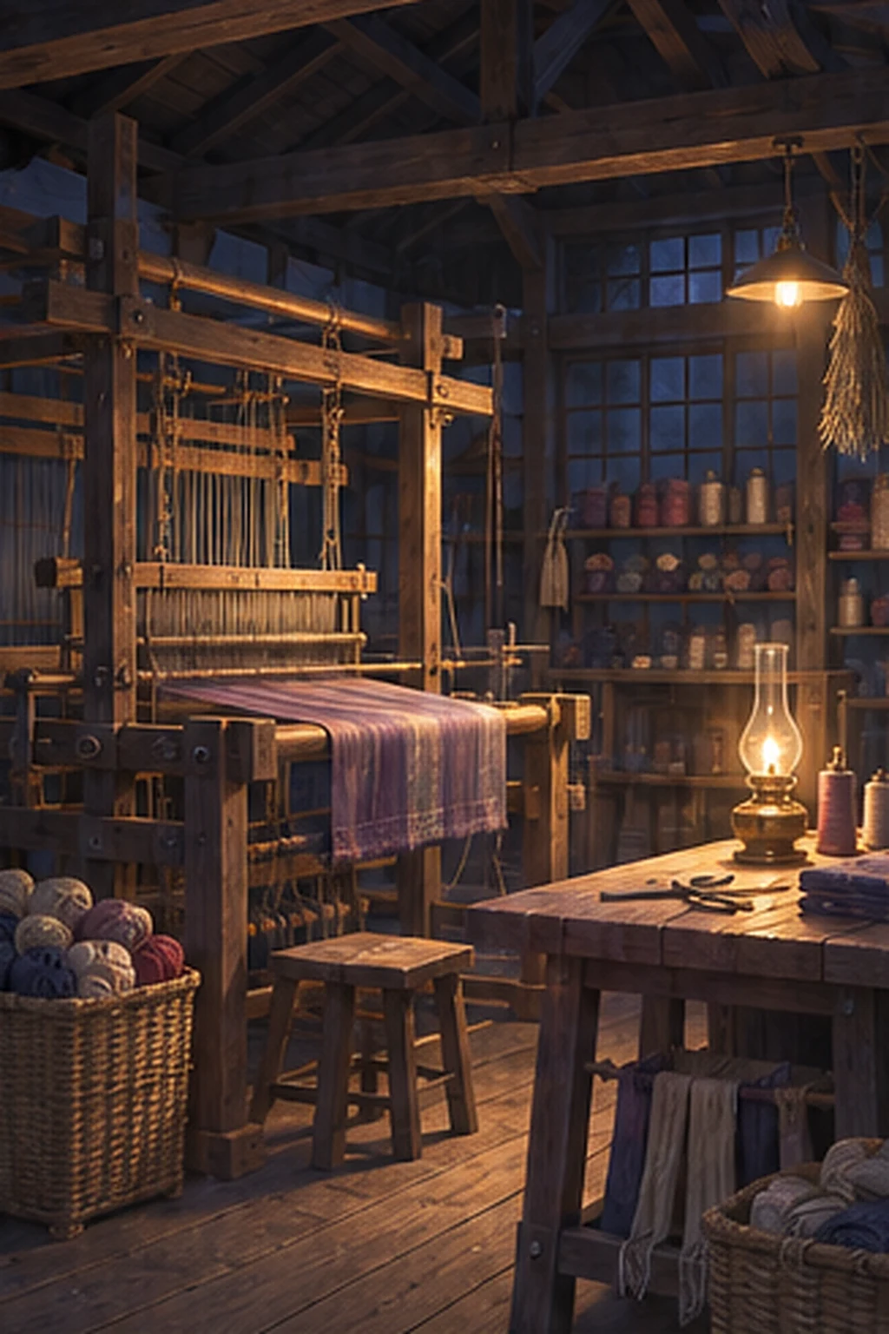
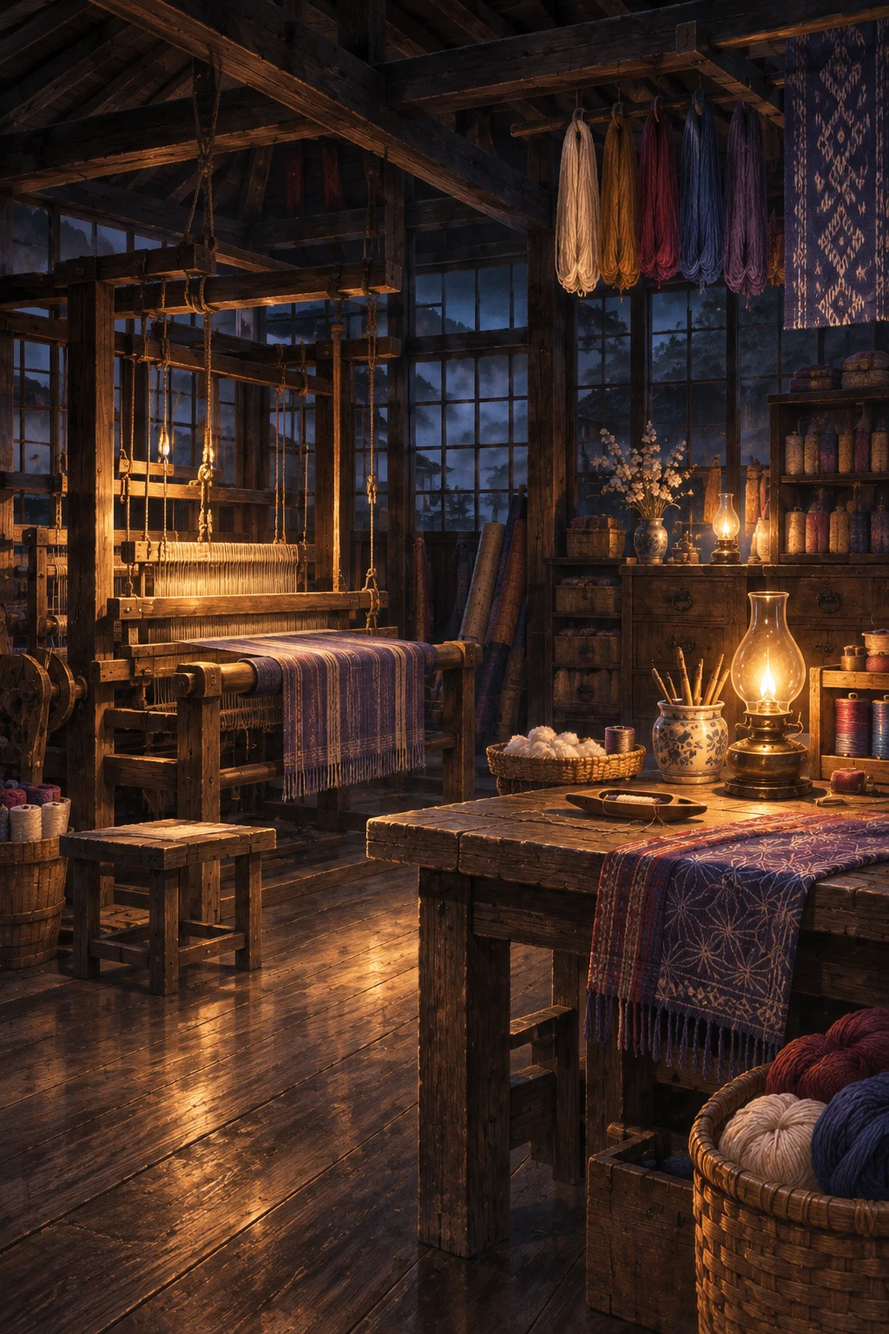
Ver.0.98.2.0 紬ヶ丘の背景7枚を高解像度版に差し替え、綴のボス戦ちびキャラを追加
Claude-Session: https://claude.ai/code/session_01VQKEeRrqcshDUzwoxaV5zA

diff --git a/index.html b/index.html
@@ -1,5 +1,5 @@
-<!doctype html><html lang="ja"><head><link rel="stylesheet" href="css/symbol_reactions_v0500.css?v=0.50.0.1"><meta charset="UTF-8"><meta name="viewport" content="width=device-width, initial-scale=1, viewport-fit=cover, interactive-widget=resizes-content"><meta name="theme-color" content="#f6f8ff"><title>宵星の契約者 | RE:START Ver.0.98.1.0</title><link rel="stylesheet" href="css/styles.css?v=0.66.0.0"><link rel="stylesheet" href="css/chibi_battle.css?v=20261109-enemy-layout-v1"><link rel="stylesheet" href="css/q6_classic_battle_v03540.css?v=20261109-classic-hitbox-v1"><link rel="stylesheet" href="css/battle_backgrounds_v1.css?v=20261106"><link rel="stylesheet" href="css/home_portrait_fit_v03550.css?v=0.49.0.0"><link rel="stylesheet" href="css/portrait_face_frame_v03560.css?v=0.49.0.0"><link rel="stylesheet" href="css/mobile_landscape_v03560_patch.css?v=20261103"><link rel="stylesheet" href="css/character_depth_v1.css?v=1"><link rel="stylesheet" href="css/character_acting_v1.css?v=20261104-2">
+<!doctype html><html lang="ja"><head><link rel="stylesheet" href="css/symbol_reactions_v0500.css?v=0.50.0.1"><meta charset="UTF-8"><meta name="viewport" content="width=device-width, initial-scale=1, viewport-fit=cover, interactive-widget=resizes-content"><meta name="theme-color" content="#f6f8ff"><title>宵星の契約者 | RE:START Ver.0.98.2.0</title><link rel="stylesheet" href="css/styles.css?v=0.66.0.0"><link rel="stylesheet" href="css/chibi_battle.css?v=20261109-enemy-layout-v1"><link rel="stylesheet" href="css/q6_classic_battle_v03540.css?v=20261109-classic-hitbox-v1"><link rel="stylesheet" href="css/battle_backgrounds_v1.css?v=20261106"><link rel="stylesheet" href="css/home_portrait_fit_v03550.css?v=0.49.0.0"><link rel="stylesheet" href="css/portrait_face_frame_v03560.css?v=0.49.0.0"><link rel="stylesheet" href="css/mobile_landscape_v03560_patch.css?v=20261103"><link rel="stylesheet" href="css/character_depth_v1.css?v=1"><link rel="stylesheet" href="css/character_acting_v1.css?v=20261104-2">
 <link rel="stylesheet" href="css/home_landscape_v05010.css?v=0.54.7.0">
 <link rel="stylesheet" href="css/zankyo_book_v05050.css?v=0.50.5.0">
 <link rel="stylesheet" href="css/battle_ui_dashboard_v1.css?v=20261109-fixed-hud-v2"><link rel="stylesheet" href="css/battle_immersive_v1.css?v=20261109-in-scene-1"><link rel="stylesheet" href="css/battle_readability_v1.css?v=20261109-readability-v2"><link rel="stylesheet" href="css/onescreen_v0661.css?v=0.68.4.1"><link rel="stylesheet" href="css/night_v0670.css?v=0.67.3.0"><link rel="stylesheet" href="css/title_v0680.css?v=0.68.2.0"><link rel="stylesheet" href="css/home_touch_v0685.css?v=0.68.7.0"></head><body><div id="app"></div>
-<script defer src="js/art.js?v=0.49.2.0"></script><script defer src="js/art_v2.js?v=0.55.1.0"></script><script defer src="js/romance7.js?v=0.49.2.0"></script><script defer src="js/romance_shinonome.js?v=0.49.2.0"></script><script defer src="js/romance_oldcafe.js?v=0.49.2.0"></script><script defer src="js/romance_stage_lines.js?v=0.49.2.0"></script><script defer src="js/romance_station.js?v=0.49.2.0"></script><script defer src="js/romance_school.js?v=0.49.2.0"></script><script defer src="js/romance_seaside.js?v=0.49.2.0"></script><script defer src="js/romance_lighthouse.js?v=0.49.2.0"></script><script defer src="js/romance_chapter2.js?v=0.49.2.0"></script><script defer src="js/romance_chapter2_late.js?v=0.49.2.0-sakuya-depth1"></script><script defer src="js/expression_cues.js?v=0.49.2.0"></script><script defer src="js/expression_art_v029.js?v=0.49.2.0"></script><script defer src="js/expression_cues_v029.js?v=0.49.2.0"></script><script defer src="js/prologue_faces_v03439.js?v=0.49.2.0"></script><script defer src="js/audio.js?v=0.98.0.0"></script><script defer src="js/audio_trial.js?v=0.49.2.0"></script><script defer src="js/romance_chapter3.js?v=0.49.2.0"></script><script defer src="js/romance_chapter3_late.js?v=0.49.2.0"></script><script defer src="js/romance_chapter4.js?v=0.52.1.0"></script><script defer src="js/romance_chapter5.js?v=0.49.2.0"></script><script defer src="js/chapter5_rewrite_v0360.js?v=0.49.2.0"></script><script defer src="js/chapter6_v0370.js?v=0.49.2.0"></script><script defer src="js/chapter7_v0380.js?v=0.49.2.0"></script><script defer src="js/chapter8_v0390.js?v=0.54.1.0"></script><script defer src="js/chapter9_v0400.js?v=0.49.2.0"></script><script defer src="js/chapter10_v0410.js?v=0.49.2.0"></script><script defer src="js/chapter11_v0430.js?v=0.49.2.0"></script><script defer src="js/chapter12_v0440.js?v=0.49.2.0"></script><script defer src="js/chapter13_v0450.js?v=0.49.2.0"></script><script defer src="js/chapter14_v0460.js?v=0.49.2.0"></script><script defer src="js/chapter15_v0470.js?v=0.49.2.0"></script><script defer src="js/chapter16_v0480.js?v=0.49.2.0"></script><script defer src="js/chapter17_v0490.js?v=0.49.2.0"></script><script defer src="js/chapter18_v0520.js?v=0.52.0.0"></script><script defer src="js/chapter19_v0530.js?v=0.53.0.0"></script><script defer src="js/chapter20_v0540.js?v=0.54.2.0-ibuki-depth1"></script><script defer src="js/chapter21_v0560.js?v=0.56.0.0"></script><script defer src="js/chapter22_v0570.js?v=0.57.0.0-sakuya-depth1"></script><script defer src="js/chapter23_v0580.js?v=0.65.7.0"></script><script defer src="js/chapter24_v0590.js?v=0.65.7.0"></script><script defer src="js/chapter25_v0600.js?v=0.60.0.0"></script><script defer src="js/chapter26_v0610.js?v=0.61.0.0"></script><script defer src="js/chapter27_v0620.js?v=0.65.7.0"></script><script defer src="js/chapter28_v0630.js?v=0.65.7.0"></script><script defer src="js/chapter29_v0640.js?v=0.64.0.0"></script><script defer src="js/chapter30_v0650.js?v=0.65.7.0"></script><script defer src="js/chapter33_v0710.js?v=0.71.0.0"></script><script defer src="js/chapter34_v0720.js?v=0.72.0.0"></script><script defer src="js/chapter35_v0730.js?v=0.73.0.0"></script><script defer src="js/chapter36_v0740.js?v=0.74.0.0"></script><script defer src="js/chapter37_v0750.js?v=0.75.0.0"></script><script defer src="js/chapter38_v0760.js?v=0.76.0.0"></script><script defer src="js/chapter39_v0770.js?v=0.77.0.0"></script><script defer src="js/chapter40_v0780.js?v=0.78.0.0"></script><script defer src="js/chapter41_v0790.js?v=0.79.0.0"></script><script defer src="js/chapter42_v0800.js?v=0.80.0.0"></script><script defer src="js/chapter43_v0810.js?v=0.81.0.0"></script><script defer src="js/chapter44_v0820.js?v=0.82.0.0"></script><script defer src="js/chapter45_v0830.js?v=0.83.0.0"></script><script defer src="js/chapter46_v0840.js?v=0.84.0.0"></script><script defer src="js/chapter47_v0850.js?v=0.85.0.0"></script><script defer src="js/chapter48_v0860.js?v=0.86.0.0"></script><script defer src="js/chapter49_v0870.js?v=0.87.0.0"></script><script defer src="js/chapter50_v0880.js?v=0.88.0.0"></script><script defer src="js/chapter51_v0890.js?v=0.89.0.0"></script><script defer src="js/chapter52_v0900.js?v=0.90.0.0"></script><script defer src="js/chapter53_v0910.js?v=0.91.0.0"></script><script defer src="js/chapter54_v0920.js?v=0.92.0.0"></script><script defer src="js/chapter55_v0930.js?v=0.93.0.0"></script><script defer src="js/chapter56_v0940.js?v=0.94.0.0"></script><script defer src="js/chapter57_v0950.js?v=0.95.0.0"></script><script defer src="js/chapter58_v0960.js?v=0.96.0.0"></script><script defer src="js/chapter59_v0970.js?v=0.97.0.0"></script><script defer src="js/chapter60_v0980.js?v=0.98.0.0"></script><script defer src="js/chapter31_v0690.js?v=0.69.0.0"></script><script defer src="js/chapter32_v0700.js?v=0.70.0.0"></script><script defer src="js/investigation.js?v=0.98.0.0"></script><script defer src="js/story_backgrounds_v031.js?v=0.98.1.0"></script><script defer src="js/portrait_fit_v031.js?v=0.98.1.0"></script><script defer src="js/new_units_v026.js?v=0.49.2.0"></script><script defer src="js/heroines_v027.js?v=0.49.2.0"></script><script defer src="js/heroines_v028.js?v=0.54.1.0"></script><script defer src="js/heroines_v0420.js?v=0.49.2.0"></script><script defer src="js/heroines_v0500.js?v=0.50.0.0"></script><script defer src="js/heroines_v0750.js?v=0.75.0.0"></script><script defer src="js/heroines_v0760.js?v=0.76.0.0"></script><script defer src="js/heroines_v0780.js?v=0.78.0.1"></script><script defer src="js/heroines_v0690.js?v=0.78.0.0"></script><script defer src="js/heroines_v0692.js?v=0.70.2.0"></script><script defer src="js/heroine74_encounters_v0701.js?v=0.78.0.0"></script><script defer src="js/heroines_v0510_text.js?v=0.69.1.0"></script><script defer src="js/symbol_reactions_v0500.js?v=0.50.0.1"></script><script defer src="js/heroines_v0810_units.js?v=20261115"></script><script defer src="js/heroines_v0830_units.js?v=20261115"></script><script defer src="js/heroines_v0840_units.js?v=20261115"></script><script defer src="js/heroines_v0850_units.js?v=20261115-redraw3"></script><script defer src="js/heroines_v0860_units.js?v=20261115-pr59-stage2"></script><script defer src="js/heroines_v0870_units.js?v=20261115-pr32-pr36-stage2"></script><script defer src="js/heroines_v0880_units.js?v=20261115-pr38-stage2"></script><script defer src="js/heroines_v0890_units.js?v=20261115-pr58-stage2"></script><script defer src="js/heroines_v0900_units.js?v=20261115-pr37-stage2"></script><script defer src="js/heroines_v0910_units.js?v=20261115-singles12-stage2"></script><script defer src="js/heroines_v0920_units.js?v=20261116-adopted20-stage2-r"></script><script defer src="js/heroines_v0930_units.js?v=20261116-fujimiya"></script><script defer src="js/heroines_v0940_units.js?v=20261116-nagasawa"></script><script defer src="js/heroines_v0950_units.js?v=20261116-five-r"></script><script defer src="js/heroines_v0960_units.js?v=20261116-seven-r"></script><script defer src="js/performance_v016.js?v=20261116-seven-r"></script><script defer src="js/q12_hd2d.js?v=0.49.2.0"></script><script defer src="js/q12_cinematic.js?v=0.49.2.0"></script><script defer src="js/chibi_battle.js?v=0.49.2.0"></script><script defer src="js/zankyo_enemy_art_v03440.js?v=0.50.7.0"></script><script defer src="js/chibi_bridge_v03321.js?v=0.98.1.0"></script><script defer src="js/battle_turn_v032.js?v=0.65.1.0"></script><script defer src="js/battle_weakness_v033.js?v=0.49.2.0"></script><script defer src="js/battle_flames_v034.js?v=0.49.2.0"></script><script defer src="js/battle_flame_ui_v03410.js?v=0.49.2.0"></script><script defer src="js/battle_auto_v03454.js?v=0.49.2.0"></script><script defer src="js/ambient_v03438.js?v=0.49.2.0"></script><script defer src="js/story_rewrite_v03416.js?v=0.52.1.0"></script><script defer src="js/character_depth_v1.js?v=20261116-seven-r"></script><script defer src="js/character_depth_v0692.js?v=0.70.2.0"></script><script defer src="js/heroines_v0810.js?v=0.81.0.0"></script><script defer src="js/heroines_v0830.js?v=20261115"></script><script defer src="js/heroines_v0840.js?v=20261115"></script><script defer src="js/heroines_v0850.js?v=20261115-redraw3"></script><script defer src="js/heroines_v0860.js?v=20261115-pr59"></script><script defer src="js/heroines_v0870.js?v=20261115-pr32-pr36"></script><script defer src="js/heroines_v0880.js?v=20261115-pr38-stage1"></script><script defer src="js/heroines_v0890.js?v=20261115-pr58-stage1"></script><script defer src="js/heroines_v0900.js?v=20261115-pr37-stage1"></script><script defer src="js/heroines_v0910.js?v=20261115-singles12-stage1"></script><script defer src="js/heroines_v0920.js?v=20261116-adopted20-stage1"></script><script defer src="js/heroines_v0930.js?v=20261116-fujimiya"></script><script defer src="js/heroines_v0940.js?v=20261116-nagasawa"></script><script defer src="js/heroines_v0950.js?v=20261116-five-r"></script><script defer src="js/heroines_v0960.js?v=20261116-seven-r"></script><script defer src="js/game.js?v=0.98.1.0"></script><script defer src="js/zankyo_book_v05050.js?v=0.50.7.0"></script><script defer src="js/haruka_chapter4_v03458.js?v=20261109-haruka-shadow-correct-v2-haruka-depth1"></script><script defer src="js/boss_director_v03462.js?v=0.98.1.0"></script><script defer src="js/q6_classic_battle_v03540.js?v=0.98.1.0"></script><script defer src="js/battle_backgrounds_v1.js?v=0.50.2.0"></script><script defer src="js/battle_immersive_v1.js?v=20261109-half-zones-v2"></script><script defer src="js/home_time_v05030.js?v=0.50.3.0"></script><script defer src="js/home_portrait_fit_v03550.js?v=0.49.2.0"></script><script defer src="js/portrait_faces_v03560.js?v=0.49.2.0"></script><script defer src="js/portrait_face_frame_v03560.js?v=0.49.2.0"></script><script defer src="js/story_weight_cues_v0359.js?v=0.49.2.0"></script><script defer src="js/heroines_v0500_wire.js?v=0.50.0.0"></script><script defer src="js/heroines_v0690_wire.js?v=0.69.1.0"></script><script defer src="js/heroines_v0692_wire.js?v=0.70.2.0"></script><script defer src="js/heroines_v0750_wire.js?v=0.75.0.0"></script><script defer src="js/heroines_v0760_wire.js?v=0.76.0.0"></script><script defer src="js/heroines_v0780_wire.js?v=0.78.0.0"></script><script defer src="js/heroines_v0810_wire.js?v=0.81.0.0"></script><script defer src="js/heroines_v0830_wire.js?v=20261115"></script><script defer src="js/heroines_v0840_wire.js?v=20261115"></script><script defer src="js/heroines_v0850_wire.js?v=20261115-redraw3"></script><script defer src="js/heroines_v0860_wire.js?v=20261115-pr59"></script><script defer src="js/heroines_v0870_wire.js?v=20261115-pr32-pr36"></script><script defer src="js/heroines_v0880_wire.js?v=20261115-pr38-stage1"></script><script defer src="js/heroines_v0890_wire.js?v=20261115-pr58-stage1"></script><script defer src="js/heroines_v0900_wire.js?v=20261115-pr37-stage1"></script><script defer src="js/heroines_v0910_wire.js?v=20261115-singles12-stage1"></script><script defer src="js/heroines_v0920_wire.js?v=20261116-adopted20-stage1"></script><script defer src="js/heroines_v0930_wire.js?v=20261116-fujimiya"></script><script defer src="js/heroines_v0940_wire.js?v=20261116-nagasawa"></script><script defer src="js/heroines_v0950_wire.js?v=20261116-five-r"></script><script defer src="js/heroines_v0960_wire.js?v=20261116-seven-r"></script><script defer src="js/heroines_v0420_wire.js?v=0.49.2.0"></script><script defer src="js/juri_secret_gallery_v0425.js?v=0.49.2.0"></script><script defer src="js/onescreen_v0661.js?v=0.67.1.0"></script><script defer src="js/home_touch_v0685.js?v=0.69.0.0"></script></body></html>
+<script defer src="js/art.js?v=0.49.2.0"></script><script defer src="js/art_v2.js?v=0.55.1.0"></script><script defer src="js/romance7.js?v=0.49.2.0"></script><script defer src="js/romance_shinonome.js?v=0.49.2.0"></script><script defer src="js/romance_oldcafe.js?v=0.49.2.0"></script><script defer src="js/romance_stage_lines.js?v=0.49.2.0"></script><script defer src="js/romance_station.js?v=0.49.2.0"></script><script defer src="js/romance_school.js?v=0.49.2.0"></script><script defer src="js/romance_seaside.js?v=0.49.2.0"></script><script defer src="js/romance_lighthouse.js?v=0.49.2.0"></script><script defer src="js/romance_chapter2.js?v=0.49.2.0"></script><script defer src="js/romance_chapter2_late.js?v=0.49.2.0-sakuya-depth1"></script><script defer src="js/expression_cues.js?v=0.49.2.0"></script><script defer src="js/expression_art_v029.js?v=0.49.2.0"></script><script defer src="js/expression_cues_v029.js?v=0.49.2.0"></script><script defer src="js/prologue_faces_v03439.js?v=0.49.2.0"></script><script defer src="js/audio.js?v=0.98.0.0"></script><script defer src="js/audio_trial.js?v=0.49.2.0"></script><script defer src="js/romance_chapter3.js?v=0.49.2.0"></script><script defer src="js/romance_chapter3_late.js?v=0.49.2.0"></script><script defer src="js/romance_chapter4.js?v=0.52.1.0"></script><script defer src="js/romance_chapter5.js?v=0.49.2.0"></script><script defer src="js/chapter5_rewrite_v0360.js?v=0.49.2.0"></script><script defer src="js/chapter6_v0370.js?v=0.49.2.0"></script><script defer src="js/chapter7_v0380.js?v=0.49.2.0"></script><script defer src="js/chapter8_v0390.js?v=0.54.1.0"></script><script defer src="js/chapter9_v0400.js?v=0.49.2.0"></script><script defer src="js/chapter10_v0410.js?v=0.49.2.0"></script><script defer src="js/chapter11_v0430.js?v=0.49.2.0"></script><script defer src="js/chapter12_v0440.js?v=0.49.2.0"></script><script defer src="js/chapter13_v0450.js?v=0.49.2.0"></script><script defer src="js/chapter14_v0460.js?v=0.49.2.0"></script><script defer src="js/chapter15_v0470.js?v=0.49.2.0"></script><script defer src="js/chapter16_v0480.js?v=0.49.2.0"></script><script defer src="js/chapter17_v0490.js?v=0.49.2.0"></script><script defer src="js/chapter18_v0520.js?v=0.52.0.0"></script><script defer src="js/chapter19_v0530.js?v=0.53.0.0"></script><script defer src="js/chapter20_v0540.js?v=0.54.2.0-ibuki-depth1"></script><script defer src="js/chapter21_v0560.js?v=0.56.0.0"></script><script defer src="js/chapter22_v0570.js?v=0.57.0.0-sakuya-depth1"></script><script defer src="js/chapter23_v0580.js?v=0.65.7.0"></script><script defer src="js/chapter24_v0590.js?v=0.65.7.0"></script><script defer src="js/chapter25_v0600.js?v=0.60.0.0"></script><script defer src="js/chapter26_v0610.js?v=0.61.0.0"></script><script defer src="js/chapter27_v0620.js?v=0.65.7.0"></script><script defer src="js/chapter28_v0630.js?v=0.65.7.0"></script><script defer src="js/chapter29_v0640.js?v=0.64.0.0"></script><script defer src="js/chapter30_v0650.js?v=0.65.7.0"></script><script defer src="js/chapter33_v0710.js?v=0.71.0.0"></script><script defer src="js/chapter34_v0720.js?v=0.72.0.0"></script><script defer src="js/chapter35_v0730.js?v=0.73.0.0"></script><script defer src="js/chapter36_v0740.js?v=0.74.0.0"></script><script defer src="js/chapter37_v0750.js?v=0.75.0.0"></script><script defer src="js/chapter38_v0760.js?v=0.76.0.0"></script><script defer src="js/chapter39_v0770.js?v=0.77.0.0"></script><script defer src="js/chapter40_v0780.js?v=0.78.0.0"></script><script defer src="js/chapter41_v0790.js?v=0.79.0.0"></script><script defer src="js/chapter42_v0800.js?v=0.80.0.0"></script><script defer src="js/chapter43_v0810.js?v=0.81.0.0"></script><script defer src="js/chapter44_v0820.js?v=0.82.0.0"></script><script defer src="js/chapter45_v0830.js?v=0.83.0.0"></script><script defer src="js/chapter46_v0840.js?v=0.84.0.0"></script><script defer src="js/chapter47_v0850.js?v=0.85.0.0"></script><script defer src="js/chapter48_v0860.js?v=0.86.0.0"></script><script defer src="js/chapter49_v0870.js?v=0.87.0.0"></script><script defer src="js/chapter50_v0880.js?v=0.88.0.0"></script><script defer src="js/chapter51_v0890.js?v=0.89.0.0"></script><script defer src="js/chapter52_v0900.js?v=0.90.0.0"></script><script defer src="js/chapter53_v0910.js?v=0.91.0.0"></script><script defer src="js/chapter54_v0920.js?v=0.92.0.0"></script><script defer src="js/chapter55_v0930.js?v=0.93.0.0"></script><script defer src="js/chapter56_v0940.js?v=0.94.0.0"></script><script defer src="js/chapter57_v0950.js?v=0.95.0.0"></script><script defer src="js/chapter58_v0960.js?v=0.96.0.0"></script><script defer src="js/chapter59_v0970.js?v=0.97.0.0"></script><script defer src="js/chapter60_v0980.js?v=0.98.0.0"></script><script defer src="js/chapter31_v0690.js?v=0.69.0.0"></script><script defer src="js/chapter32_v0700.js?v=0.70.0.0"></script><script defer src="js/investigation.js?v=0.98.0.0"></script><script defer src="js/story_backgrounds_v031.js?v=0.98.2.0"></script><script defer src="js/portrait_fit_v031.js?v=0.98.1.0"></script><script defer src="js/new_units_v026.js?v=0.49.2.0"></script><script defer src="js/heroines_v027.js?v=0.49.2.0"></script><script defer src="js/heroines_v028.js?v=0.54.1.0"></script><script defer src="js/heroines_v0420.js?v=0.49.2.0"></script><script defer src="js/heroines_v0500.js?v=0.50.0.0"></script><script defer src="js/heroines_v0750.js?v=0.75.0.0"></script><script defer src="js/heroines_v0760.js?v=0.76.0.0"></script><script defer src="js/heroines_v0780.js?v=0.78.0.1"></script><script defer src="js/heroines_v0690.js?v=0.78.0.0"></script><script defer src="js/heroines_v0692.js?v=0.70.2.0"></script><script defer src="js/heroine74_encounters_v0701.js?v=0.78.0.0"></script><script defer src="js/heroines_v0510_text.js?v=0.69.1.0"></script><script defer src="js/symbol_reactions_v0500.js?v=0.50.0.1"></script><script defer src="js/heroines_v0810_units.js?v=20261115"></script><script defer src="js/heroines_v0830_units.js?v=20261115"></script><script defer src="js/heroines_v0840_units.js?v=20261115"></script><script defer src="js/heroines_v0850_units.js?v=20261115-redraw3"></script><script defer src="js/heroines_v0860_units.js?v=20261115-pr59-stage2"></script><script defer src="js/heroines_v0870_units.js?v=20261115-pr32-pr36-stage2"></script><script defer src="js/heroines_v0880_units.js?v=20261115-pr38-stage2"></script><script defer src="js/heroines_v0890_units.js?v=20261115-pr58-stage2"></script><script defer src="js/heroines_v0900_units.js?v=20261115-pr37-stage2"></script><script defer src="js/heroines_v0910_units.js?v=20261115-singles12-stage2"></script><script defer src="js/heroines_v0920_units.js?v=20261116-adopted20-stage2-r"></script><script defer src="js/heroines_v0930_units.js?v=20261116-fujimiya"></script><script defer src="js/heroines_v0940_units.js?v=20261116-nagasawa"></script><script defer src="js/heroines_v0950_units.js?v=20261116-five-r"></script><script defer src="js/heroines_v0960_units.js?v=20261116-seven-r"></script><script defer src="js/performance_v016.js?v=20261116-seven-r"></script><script defer src="js/q12_hd2d.js?v=0.49.2.0"></script><script defer src="js/q12_cinematic.js?v=0.49.2.0"></script><script defer src="js/chibi_battle.js?v=0.49.2.0"></script><script defer src="js/zankyo_enemy_art_v03440.js?v=0.50.7.0"></script><script defer src="js/chibi_bridge_v03321.js?v=0.98.2.0"></script><script defer src="js/battle_turn_v032.js?v=0.65.1.0"></script><script defer src="js/battle_weakness_v033.js?v=0.49.2.0"></script><script defer src="js/battle_flames_v034.js?v=0.49.2.0"></script><script defer src="js/battle_flame_ui_v03410.js?v=0.49.2.0"></script><script defer src="js/battle_auto_v03454.js?v=0.49.2.0"></script><script defer src="js/ambient_v03438.js?v=0.49.2.0"></script><script defer src="js/story_rewrite_v03416.js?v=0.52.1.0"></script><script defer src="js/character_depth_v1.js?v=20261116-seven-r"></script><script defer src="js/character_depth_v0692.js?v=0.70.2.0"></script><script defer src="js/heroines_v0810.js?v=0.81.0.0"></script><script defer src="js/heroines_v0830.js?v=20261115"></script><script defer src="js/heroines_v0840.js?v=20261115"></script><script defer src="js/heroines_v0850.js?v=20261115-redraw3"></script><script defer src="js/heroines_v0860.js?v=20261115-pr59"></script><script defer src="js/heroines_v0870.js?v=20261115-pr32-pr36"></script><script defer src="js/heroines_v0880.js?v=20261115-pr38-stage1"></script><script defer src="js/heroines_v0890.js?v=20261115-pr58-stage1"></script><script defer src="js/heroines_v0900.js?v=20261115-pr37-stage1"></script><script defer src="js/heroines_v0910.js?v=20261115-singles12-stage1"></script><script defer src="js/heroines_v0920.js?v=20261116-adopted20-stage1"></script><script defer src="js/heroines_v0930.js?v=20261116-fujimiya"></script><script defer src="js/heroines_v0940.js?v=20261116-nagasawa"></script><script defer src="js/heroines_v0950.js?v=20261116-five-r"></script><script defer src="js/heroines_v0960.js?v=20261116-seven-r"></script><script defer src="js/game.js?v=0.98.1.0"></script><script defer src="js/zankyo_book_v05050.js?v=0.50.7.0"></script><script defer src="js/haruka_chapter4_v03458.js?v=20261109-haruka-shadow-correct-v2-haruka-depth1"></script><script defer src="js/boss_director_v03462.js?v=0.98.1.0"></script><script defer src="js/q6_classic_battle_v03540.js?v=0.98.1.0"></script><script defer src="js/battle_backgrounds_v1.js?v=0.50.2.0"></script><script defer src="js/battle_immersive_v1.js?v=20261109-half-zones-v2"></script><script defer src="js/home_time_v05030.js?v=0.50.3.0"></script><script defer src="js/home_portrait_fit_v03550.js?v=0.49.2.0"></script><script defer src="js/portrait_faces_v03560.js?v=0.49.2.0"></script><script defer src="js/portrait_face_frame_v03560.js?v=0.49.2.0"></script><script defer src="js/story_weight_cues_v0359.js?v=0.49.2.0"></script><script defer src="js/heroines_v0500_wire.js?v=0.50.0.0"></script><script defer src="js/heroines_v0690_wire.js?v=0.69.1.0"></script><script defer src="js/heroines_v0692_wire.js?v=0.70.2.0"></script><script defer src="js/heroines_v0750_wire.js?v=0.75.0.0"></script><script defer src="js/heroines_v0760_wire.js?v=0.76.0.0"></script><script defer src="js/heroines_v0780_wire.js?v=0.78.0.0"></script><script defer src="js/heroines_v0810_wire.js?v=0.81.0.0"></script><script defer src="js/heroines_v0830_wire.js?v=20261115"></script><script defer src="js/heroines_v0840_wire.js?v=20261115"></script><script defer src="js/heroines_v0850_wire.js?v=20261115-redraw3"></script><script defer src="js/heroines_v0860_wire.js?v=20261115-pr59"></script><script defer src="js/heroines_v0870_wire.js?v=20261115-pr32-pr36"></script><script defer src="js/heroines_v0880_wire.js?v=20261115-pr38-stage1"></script><script defer src="js/heroines_v0890_wire.js?v=20261115-pr58-stage1"></script><script defer src="js/heroines_v0900_wire.js?v=20261115-pr37-stage1"></script><script defer src="js/heroines_v0910_wire.js?v=20261115-singles12-stage1"></script><script defer src="js/heroines_v0920_wire.js?v=20261116-adopted20-stage1"></script><script defer src="js/heroines_v0930_wire.js?v=20261116-fujimiya"></script><script defer src="js/heroines_v0940_wire.js?v=20261116-nagasawa"></script><script defer src="js/heroines_v0950_wire.js?v=20261116-five-r"></script><script defer src="js/heroines_v0960_wire.js?v=20261116-seven-r"></script><script defer src="js/heroines_v0420_wire.js?v=0.49.2.0"></script><script defer src="js/juri_secret_gallery_v0425.js?v=0.49.2.0"></script><script defer src="js/onescreen_v0661.js?v=0.67.1.0"></script><script defer src="js/home_touch_v0685.js?v=0.69.0.0"></script></body></html>

diff --git a/js/story_backgrounds_v031.js b/js/story_backgrounds_v031.js
@@ -24,15 +24,15 @@ const STORY_BG_FILES = Object.freeze({
   'yn_nakaniwa:day': 'assets/ART_V2/backgrounds/bg_yn_nakaniwa_day.webp',
   'yn_nakaniwa:night': 'assets/ART_V2/backgrounds/bg_yn_nakaniwa_night.webp',
   'higamine:dusk': 'assets/ART_V2/backgrounds/bg_higamine_dusk.webp',
-  'tsumugi_street:day': 'assets/ART_V2/backgrounds/bg_tsumugi_street_day.webp',
-  'tsumugi_street:dusk': 'assets/ART_V2/backgrounds/bg_tsumugi_street_dusk.webp',
-  'tsumugi_street:night': 'assets/ART_V2/backgrounds/bg_tsumugi_street_night.webp',
-  'tsumugi_eki:day': 'assets/ART_V2/backgrounds/bg_tsumugi_eki_day.webp',
-  'tsumugi_koubou:night': 'assets/ART_V2/backgrounds/bg_tsumugi_koubou_night.webp',
-  'tsumugi_nakaniwa:day': 'assets/ART_V2/backgrounds/bg_tsumugi_nakaniwa_day.webp',
-  'tsumugi_kura:night': 'assets/ART_V2/backgrounds/bg_tsumugi_kura_night.webp',
-  'tsumugi_matsuri:dusk': 'assets/ART_V2/backgrounds/bg_tsumugi_matsuri_dusk.webp',
-  'tsumugi_matsuri:night': 'assets/ART_V2/backgrounds/bg_tsumugi_matsuri_night.webp',
+  'tsumugi_street:day': 'assets/ART_V2/backgrounds/bg_tsumugi_street_day.webp?v=0.98.2.0',
+  'tsumugi_street:dusk': 'assets/ART_V2/backgrounds/bg_tsumugi_street_dusk.webp?v=0.98.2.0',
+  'tsumugi_street:night': 'assets/ART_V2/backgrounds/bg_tsumugi_street_night.webp?v=0.98.2.0',
+  'tsumugi_eki:day': 'assets/ART_V2/backgrounds/bg_tsumugi_eki_day.webp?v=0.98.2.0',
+  'tsumugi_koubou:night': 'assets/ART_V2/backgrounds/bg_tsumugi_koubou_night.webp?v=0.98.2.0',
+  'tsumugi_nakaniwa:day': 'assets/ART_V2/backgrounds/bg_tsumugi_nakaniwa_day.webp?v=0.98.2.0',
+  'tsumugi_kura:night': 'assets/ART_V2/backgrounds/bg_tsumugi_kura_night.webp?v=0.98.2.0',
+  'tsumugi_matsuri:dusk': 'assets/ART_V2/backgrounds/bg_tsumugi_matsuri_dusk.webp?v=0.98.2.0',
+  'tsumugi_matsuri:night': 'assets/ART_V2/backgrounds/bg_tsumugi_matsuri_night.webp?v=0.98.2.0',
   'suizokukan:night': 'assets/ART_V2/backgrounds/bg_suizokukan_night.webp',
   'planetarium:night': 'assets/ART_V2/backgrounds/bg_planetarium_night.webp',
   'umisoko:night': 'assets/ART_V2/backgrounds/bg_umisoko_night.webp',

diff --git a/js/chibi_bridge_v03321.js b/js/chibi_bridge_v03321.js
@@ -55,7 +55,7 @@
    // v0.65.2.0: ボスのちびキャラ（沙耶・黒い灯の葵・ルリ・透子・槐・常夜、第3部の朔夜）
    const BOSS_CHIBI={q173:'sakuya',q28:'saya',q35:'aoi_dark',q40:'aoi_dark',q45:'aoi_dark',q46:'ruri',q52:'touko_true',q58:'touko_true',q81:'touko_true',q89:'enju',q113:'enju',q119:'tokoyo',q287:'tokoyo',q291:'tokoyo',q341:'tsuzuri',q347:'kirishima_haruka'};
    if(BOSS_CHIBI[b.qid]&&e.kind==='boss')
-     return {src:'assets/enemies/'+BOSS_CHIBI[b.qid]+'_battle.webp?v=0.65.2.0',catalogueId:BOSS_CHIBI[b.qid]+'_battle'};
+     return {src:'assets/enemies/'+BOSS_CHIBI[b.qid]+'_battle.webp?v=0.98.2.0',catalogueId:BOSS_CHIBI[b.qid]+'_battle'};
    // q24: ① genuine Haruka and ② fake Haruka (the two mask shadows).
    // The existing harukaRole values are unchanged; no new enemy is created.
    if(b.qid==='q24'){
